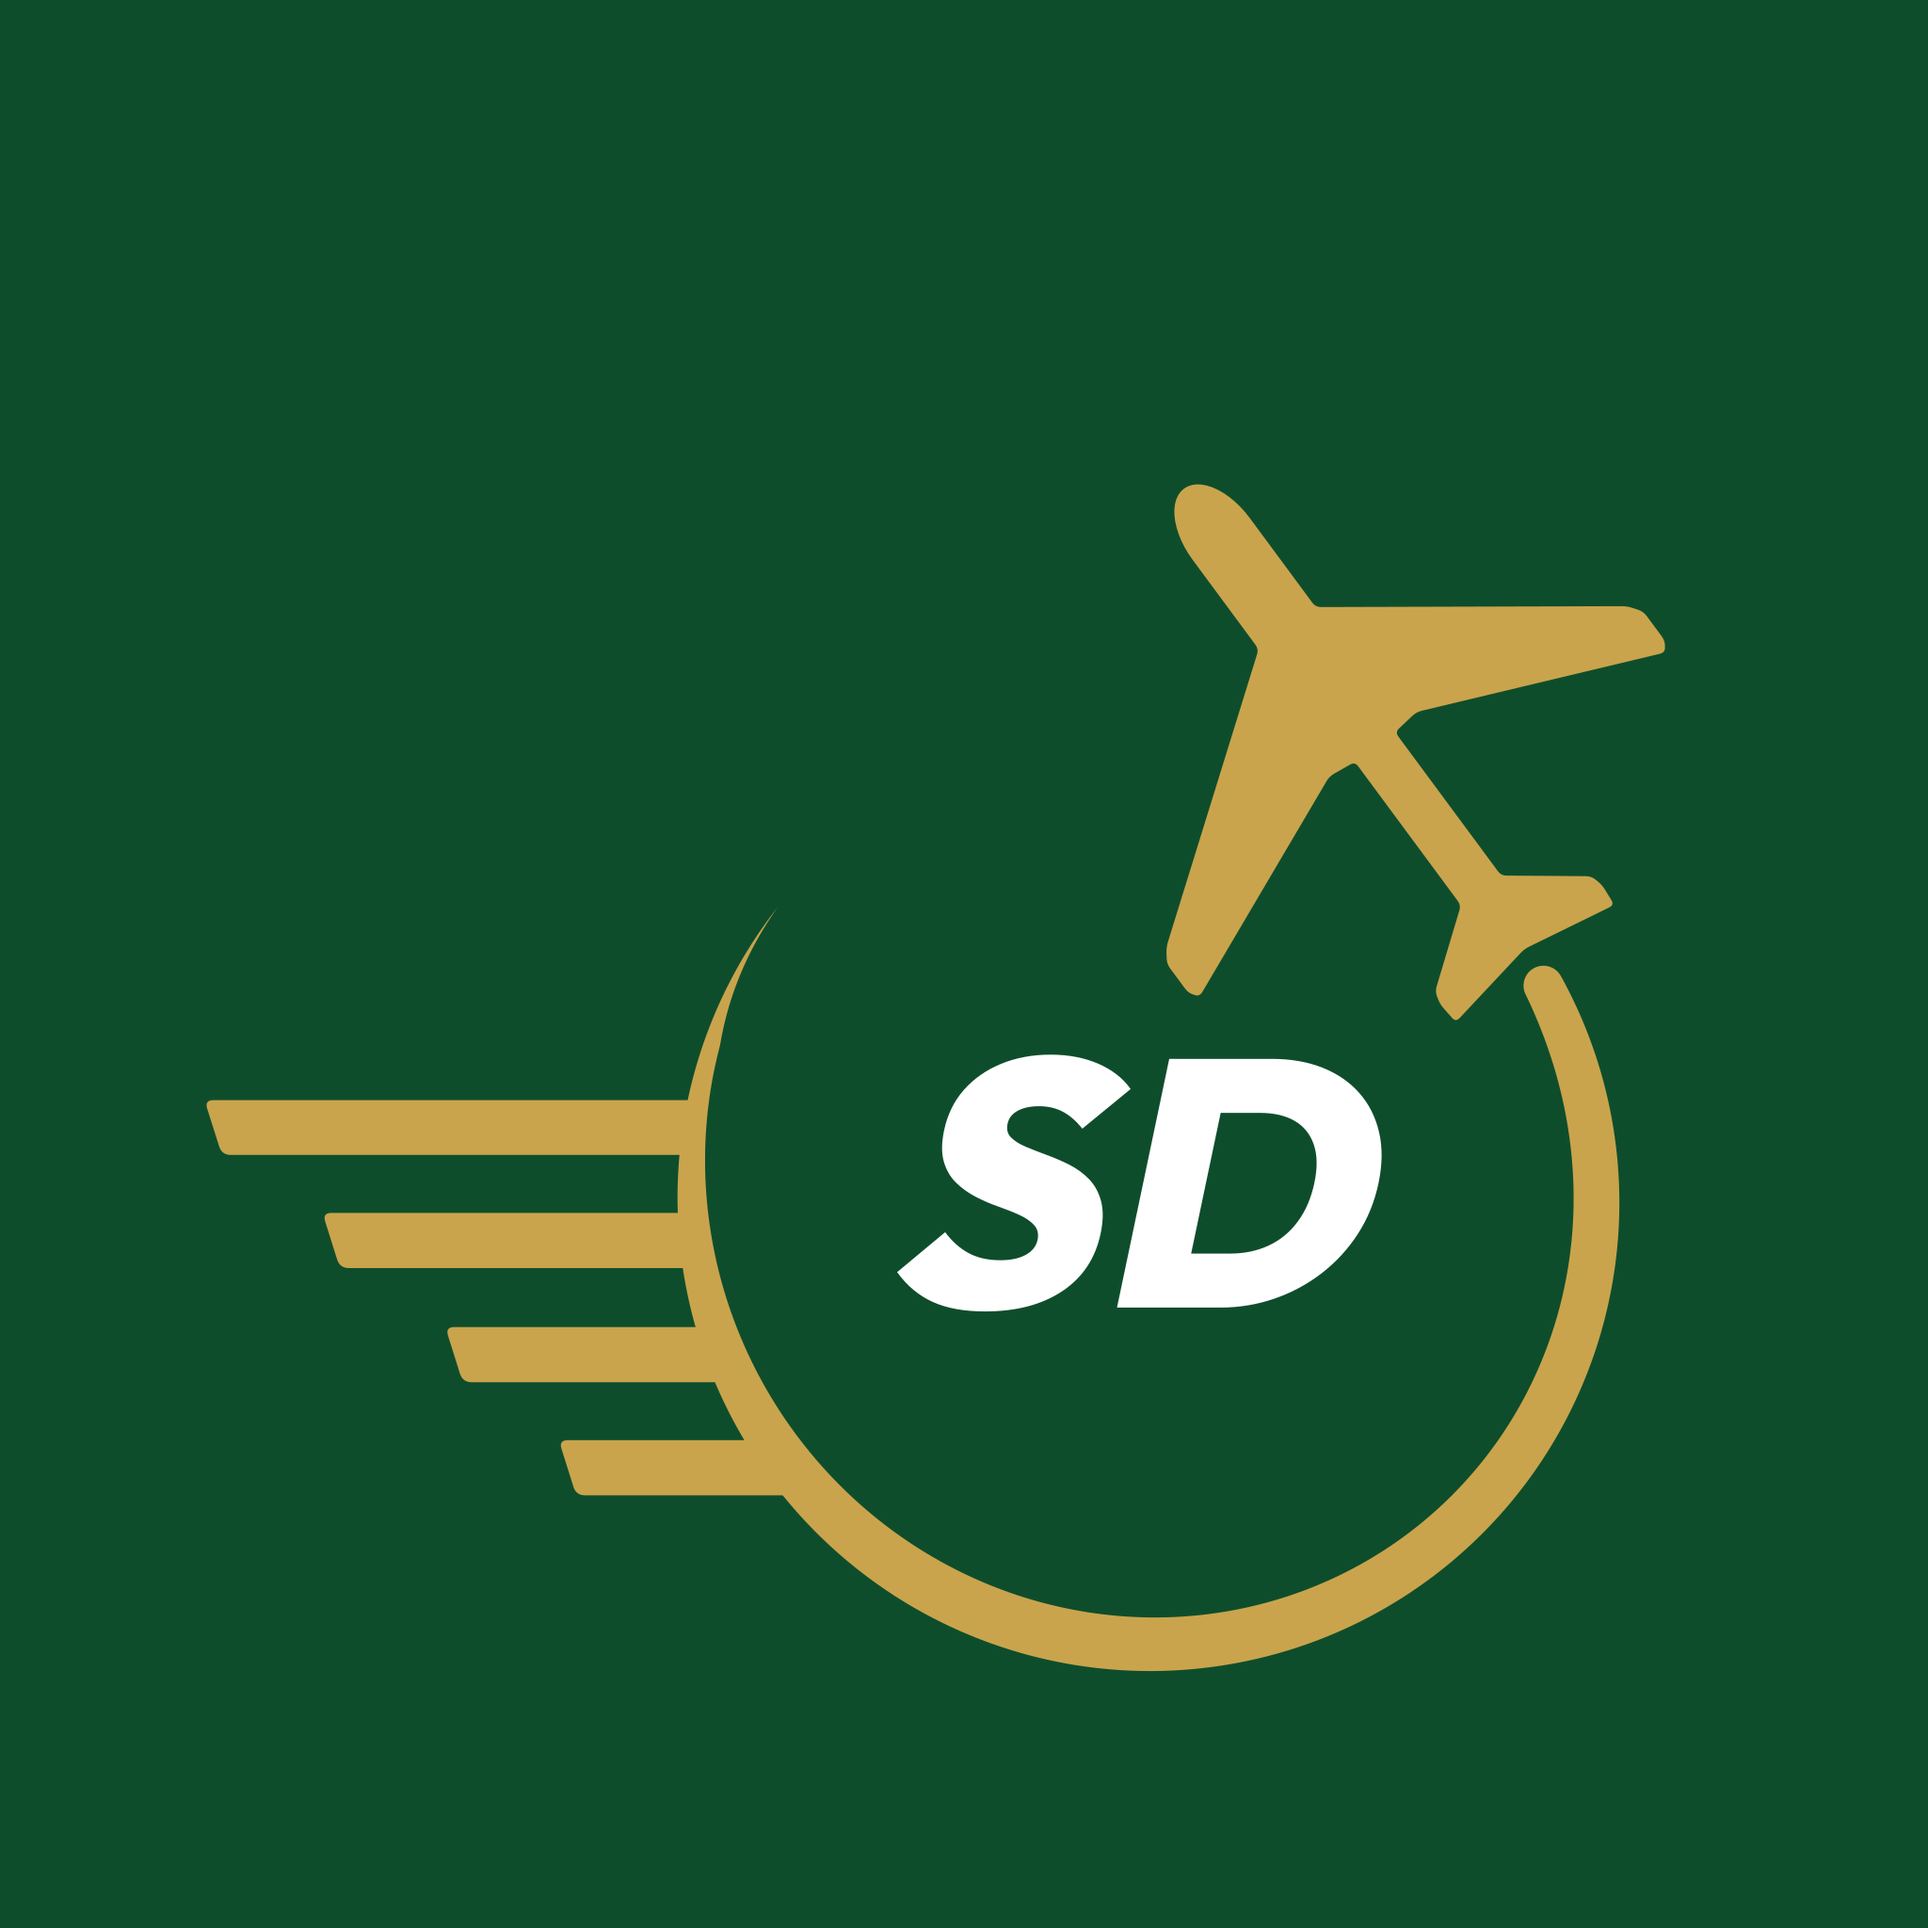
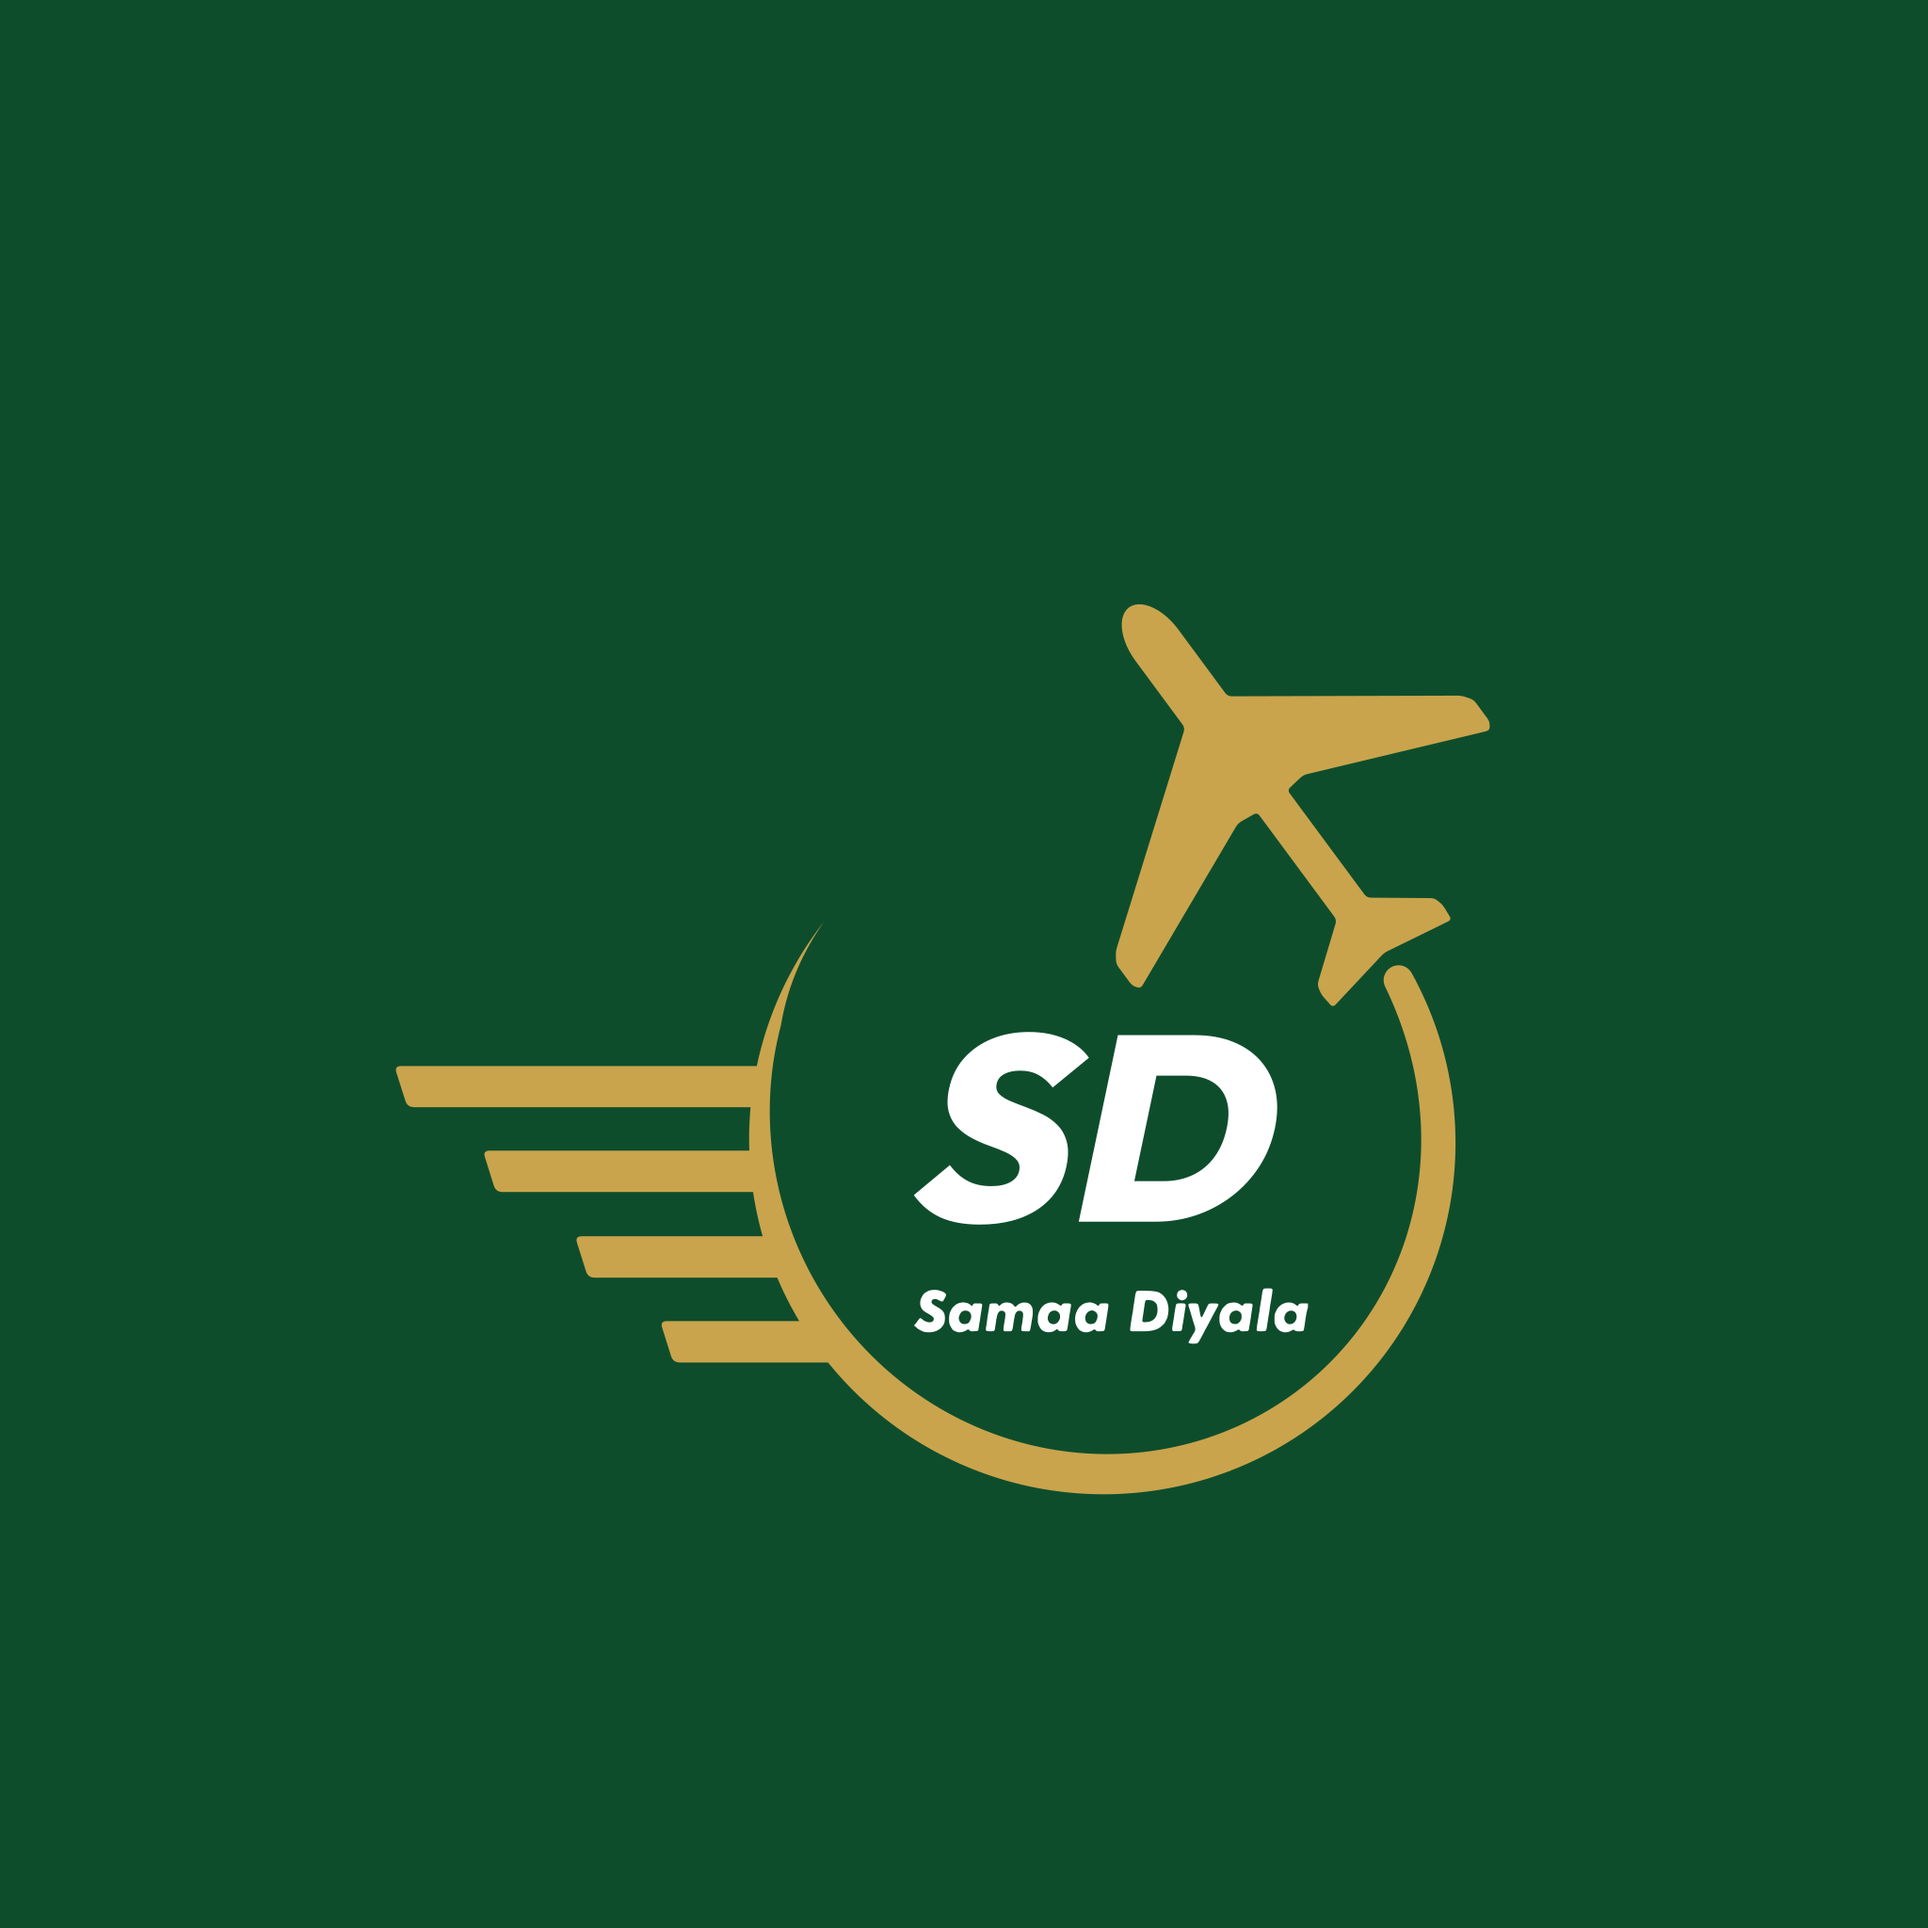
صورة البروفايل المعتمدة: مع الاسم الصغير وهامش أخضر أوسع
Claude-Session: https://claude.ai/code/session_01EprWPUJDuKvYHn821imCPv

Changed region(s): [[0.0938, 0.25, 0.875, 0.875]]

diff --git a/07-أدوات/profile_picture.py b/07-أدوات/profile_picture.py
@@ -1,8 +1,8 @@
 # Builds the profile picture: the symbol on brand green, centred optically inside the circular crop.
-# Usage: python3 profile_picture.py <out_dir>
+# Usage: python3 profile_picture.py <out_dir> [fill]   (fill = symbol radius / canvas width; approved 0.30)
 import re,sys,io,cairosvg,cv2,numpy as np
 from PIL import Image
-OUT=sys.argv[1]; N=2048; R_FILL=0.40          # symbol's enclosing circle = 40% of canvas width (radius)
+OUT=sys.argv[1]; N=2048; R_FILL=float(sys.argv[2]) if len(sys.argv)>2 else 0.30   # enclosing-circle radius as a share of canvas width
 src=open('01-الشعار/SVG/الرمز - على الأخضر.svg').read()
 vb=[float(v) for v in re.search(r'viewBox="([^"]+)"',src).group(1).split()]
 paths=re.findall(r'<path [^>]+/>',src)
@@ -20,7 +20,7 @@ def build(keep_inner_text):
     svg=(f'<svg xmlns="http://www.w3.org/2000/svg" viewBox="{nvb[0]:.2f} {nvb[1]:.2f} {nvb[2]:.2f} {nvb[3]:.2f}" width="{N}" height="{N}">'
          f'<rect x="{nvb[0]:.2f}" y="{nvb[1]:.2f}" width="{nvb[2]:.2f}" height="{nvb[3]:.2f}" fill="#0E4D2C"/>{"".join(ps)}</svg>')
     return svg
-for keep,name in [(False,'صورة البروفايل'),(True,'صورة البروفايل - مع الاسم الصغير')]:
+for keep,name in [(True,'صورة البروفايل')]:   # approved: with the small inner name
     svg=build(keep)
     open(f'{OUT}/{name}.svg','w').write(svg)
     cairosvg.svg2png(bytestring=svg.encode(),write_to=f'{OUT}/{name} - 2048.png')

diff --git a/CLAUDE.md b/CLAUDE.md
@@ -55,7 +55,7 @@
 - `08-الصور/`: صور حقيقية من المكتب. المعتمدة "المكتب - الواجهة (نهائية بإضاءة سينمائية)" (تدرّج لوني بـ `cinematic_grade.py`)، وقبلها "معدّلة بلا مروحة": أُزيل فيها انعكاس لافتة العراقية بإعادة رسم الحروف (`07-أدوات/صورة-المكتب/redraw.py`)، ثم أُزيلت المروحة اليمنى (`remove_fan.py`).
 - بيئة "sama-diyala" تسمح أيضاً بـ en.wikipedia.org وcommons.wikimedia.org وupload.wikimedia.org. ويكيميديا تحظر الملفات الأصلية أحياناً بسبب كثرة الطلبات، والصور المصغّرة بمقاس 1920 تعمل.
 - `09-التصاميم/`: كل تصميم في مجلده، مصدره HTML ويُصدَّر PNG عبر Chromium. الخطوط في `07-أدوات/خطوط/`.
-- صورة البروفايل: `09-التصاميم/صورة البروفايل/` (2048×2048، الرمز على الأخضر داخل دائرة القص، بنسخة دون "Samaa Diyala" الصغيرة وأخرى معها). تُولَّد بـ `07-أدوات/profile_picture.py`.
+- صورة البروفايل (معتمدة): `09-التصاميم/صورة البروفايل/` 2048×2048، الرمز مع "Samaa Diyala" الصغيرة على الأخضر، بهامش واسع (نصف قطر الرمز 30% من العرض) للتحكم عند الرفع. تُولَّد بـ `07-أدوات/profile_picture.py`.
 - غلاف فيسبوك: 1640×924، والنص في الشريط الأوسط (y بين 150 و774) لأن الحاسوب يقص الأعلى والأسفل.
 
 ## قواعد ثابتة لكل التصاميم
